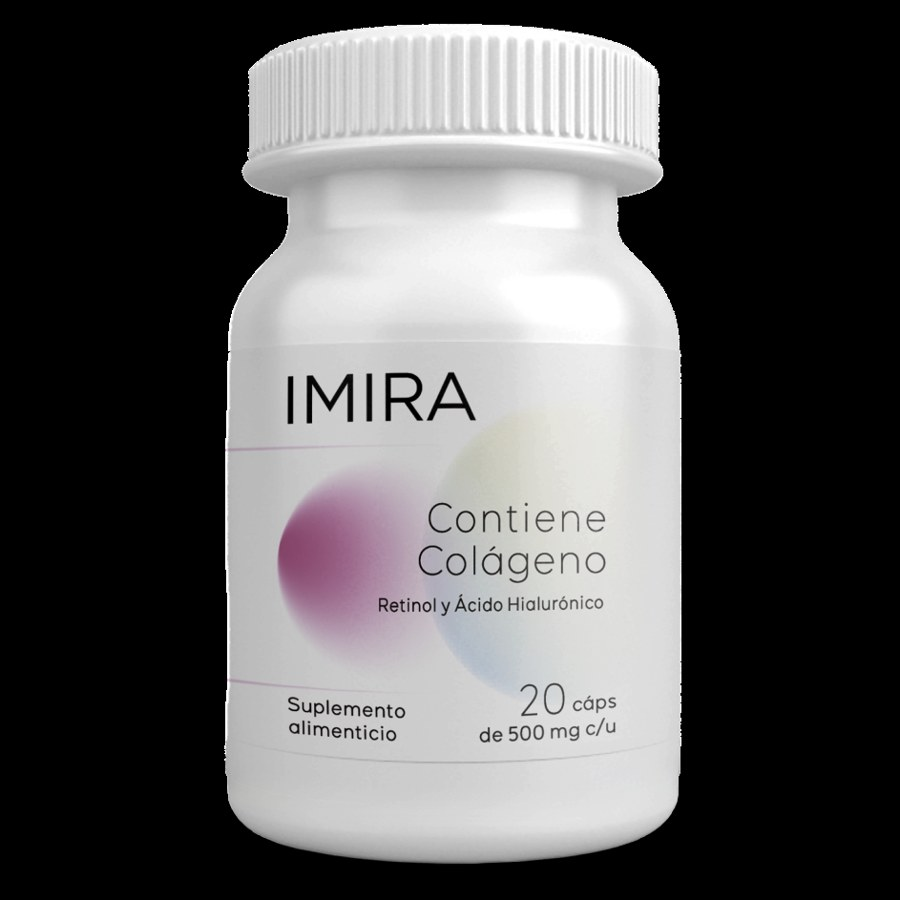
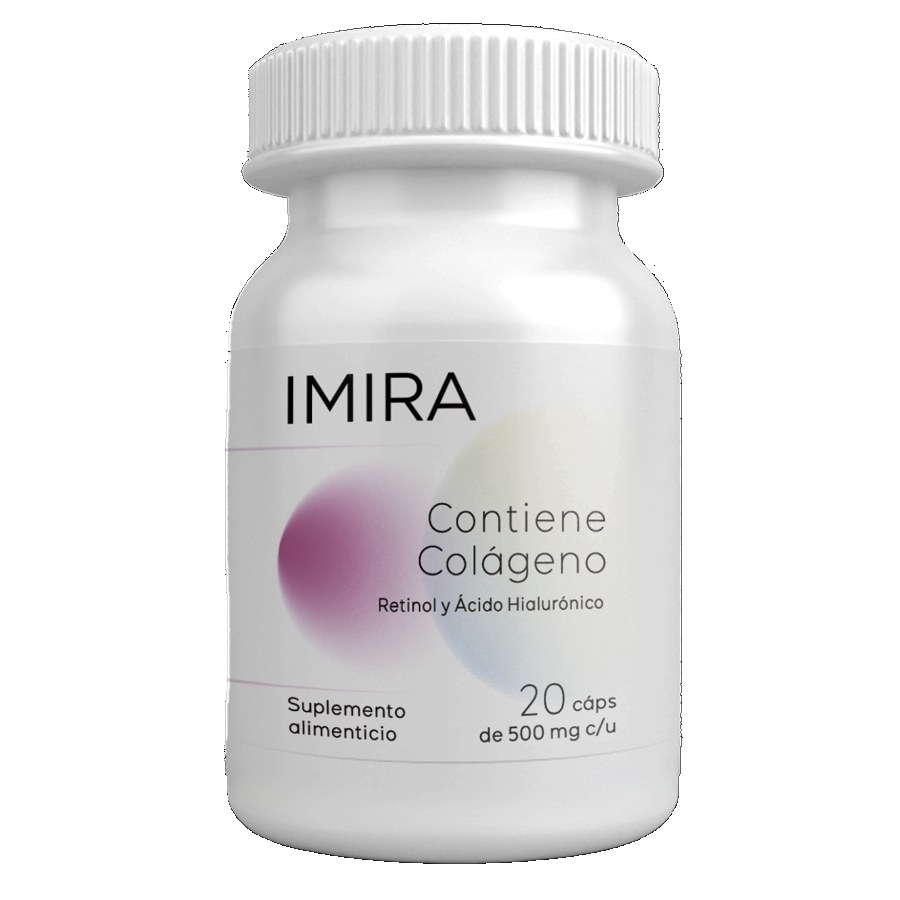
Фото: белый фон вместо чёрного — 763 кадра заливкой, 223 перерисовкой с автопроверкой текста

diff --git a/index.html b/index.html
@@ -52,7 +52,7 @@
 <div class="wrap">
   <header><img src="favicon.png" alt=""><h1>Tienda del fabricante</h1></header>
   <div class="intro"><p>Venta directa de productos para el bienestar diario.</p></div>
-  <div class="grid"><a class="card" href="/cp/artex/"><div class="ph"><img src="img/cat-eve-1277.jpg" alt="ARTEX" loading="lazy"></div><div class="name">ARTEX</div><div class="price">$590 MXN</div><div class="btn">PEDIR EL ORIGINAL</div></a><a class="card" href="/cp/audix/"><div class="ph"><img src="img/cpagetti-mx-14181.png" alt="Audix" loading="lazy"></div><div class="name">Audix</div><div class="price">$870 MXN</div><div class="btn">PEDIR EL ORIGINAL</div></a><a class="card" href="/dc/biofit/"><div class="ph"><img src="img/drcash-biofit.png" alt="Biofit" loading="lazy"></div><div class="name">Biofit</div><div class="price">$590 MXN</div><div class="btn">PEDIR EL ORIGINAL</div></a><a class="card" href="/mc/bionica/"><div class="ph"><img src="img/meta-mx-3566.png" alt="BIONICA" loading="lazy"></div><div class="name">BIONICA</div><div class="price">$590 MXN</div><div class="btn">PEDIR EL ORIGINAL</div></a><a class="card" href="/lr/biosulin/"><div class="ph"><img src="img/meta-biosulin.jpg" alt="Biosulin" loading="lazy"></div><div class="name">Biosulin</div><div class="price">$649 MXN</div><div class="btn">PEDIR EL ORIGINAL</div></a><a class="card" href="/cp/biozin/"><div class="ph"><img src="img/cpagetti-mx-13339.png" alt="Biozin" loading="lazy"></div><div class="name">Biozin</div><div class="price">$360 MXN</div><div class="btn">PEDIR EL ORIGINAL</div></a><a class="card" href="/cp/calmazin/"><div class="ph"><img src="img/cpagetti-calmazin.png" alt="Calmazin" loading="lazy"></div><div class="name">Calmazin</div><div class="price">$590 MXN</div><div class="btn">PEDIR EL ORIGINAL</div></a><a class="card" href="/dc/cardionix/"><div class="ph"><img src="img/drcash-mx-a72b2e04-2b3b-4138-81d6-2c87d0ce55bc.png" alt="Cardionix" loading="lazy"></div><div class="name">Cardionix</div><div class="price">$890 MXN</div><div class="btn">PEDIR EL ORIGINAL</div></a><a class="card" href="/ac/cardioviva/"><div class="ph"><img src="img/adcombo-cardioviva.png" alt="CardioViva" loading="lazy"></div><div class="name">CardioViva</div><div class="price">$649 MXN</div><div class="btn">PEDIR EL ORIGINAL</div></a><a class="card" href="/lr/congelum/"><div class="ph"><img src="img/adcombo-congelum.png" alt="Congelum" loading="lazy"></div><div class="name">Congelum</div><div class="price">$890 MXN</div><div class="btn">PEDIR EL ORIGINAL</div></a><a class="card" href="/tl/cordalis/"><div class="ph"><img src="img/drcash-cordalis.png" alt="Cordalis" loading="lazy"></div><div class="name">Cordalis</div><div class="price">$790 MXN</div><div class="btn">PEDIR EL ORIGINAL</div></a><a class="card" href="/kma/cordinox/"><div class="ph"><img src="img/cat-kma-10434.jpg" alt="Cordinox" loading="lazy"></div><div class="name">Cordinox</div><div class="price">$790 MXN</div><div class="btn">PEDIR EL ORIGINAL</div></a><a class="card" href="/m1/cordinox/"><div class="ph"><img src="img/drcash-mx-5a42144d-1a06-4277-b0a2-e2ddde7de019.png" alt="Cordinox jar" loading="lazy"></div><div class="name">Cordinox jar</div><div class="price">$590 MXN</div><div class="btn">PEDIR EL ORIGINAL</div></a><a class="card" href="/lb/cortitron/"><div class="ph"><img src="img/leadbit-cortitron.webp" alt="Cortitron" loading="lazy"></div><div class="name">Cortitron</div><div class="price">$790 MXN</div><div class="btn">PEDIR EL ORIGINAL</div></a><a class="card" href="/tl/dbxol/"><div class="ph"><img src="img/drcash-mx-79c82e5d-0e2e-4e0b-b062-9547c978b7e7.jpg" alt="DBXol" loading="lazy"></div><div class="name">DBXol</div><div class="price">$790 MXN</div><div class="btn">PEDIR EL ORIGINAL</div></a><a class="card" href="/cp/diamed/"><div class="ph"><img src="img/cpagetti-diamed.png" alt="Diamed" loading="lazy"></div><div class="name">Diamed</div><div class="price">$590 MXN</div><div class="btn">PEDIR EL ORIGINAL</div></a><a class="card" href="/cp/diamin/"><div class="ph"><img src="img/cpagetti-mx-13321.png" alt="Diamin" loading="lazy"></div><div class="name">Diamin</div><div class="price">$590 MXN</div><div class="btn">PEDIR EL ORIGINAL</div></a><a class="card" href="/cp/diaten/"><div class="ph"><img src="img/cpagetti-mx-16253.png" alt="DIATEN" loading="lazy"></div><div class="name">DIATEN</div><div class="price">$590 MXN</div><div class="btn">PEDIR EL ORIGINAL</div></a><a class="card" href="/cp/difort/"><div class="ph"><img src="img/cat-eve-1178.jpg" alt="DIFORT" loading="lazy"></div><div class="name">DIFORT</div><div class="price">$590 MXN</div><div class="btn">PEDIR EL ORIGINAL</div></a><a class="card" href="/ac/diobene/"><div class="ph"><img src="img/lbhd-14147.png" alt="Diobene" loading="lazy"></div><div class="name">Diobene</div><div class="price">$649 MXN</div><div class="btn">PEDIR EL ORIGINAL</div></a><a class="card" href="/ac/duston-gel/"><div class="ph"><img src="img/cp-14895.jpg" alt="Duston Gel" loading="lazy"></div><div class="name">Duston Gel</div><div class="price">$890 MXN</div><div class="btn">PEDIR EL ORIGINAL</div></a><a class="card" href="/cp/enzimlex/"><div class="ph"><img src="img/cpagetti-mx-13333.png" alt="Enzimlex" loading="lazy"></div><div class="name">Enzimlex</div><div class="price">$790 MXN</div><div class="btn">PEDIR EL ORIGINAL</div></a><a class="card" href="/lr/eroferon/"><div class="ph"><img src="img/leadrock-eroferon.webp" alt="Eroferon" loading="lazy"></div><div class="name">Eroferon</div><div class="price">$590 MXN</div><div class="btn">PEDIR EL ORIGINAL</div></a><a class="card" href="/lr/eronex/"><div class="ph"><img src="img/cat-roc-769.jpg" alt="Eronex" loading="lazy"></div><div class="name">Eronex</div><div class="price">$790 MXN</div><div class="btn">PEDIR EL ORIGINAL</div></a><a class="card" href="/rp/eronex-940/"><div class="ph"><img src="img/cat-roc-940.jpg" alt="Eronex 690" loading="lazy"></div><div class="name">Eronex 690</div><div class="price">$690 MXN</div><div class="btn">PEDIR EL ORIGINAL</div></a><a class="card" href="/cp/esbelita/"><div class="ph"><img src="img/cpagetti-esbelita.png" alt="Esbelita" loading="lazy"></div><div class="name">Esbelita</div><div class="price">$690 MXN</div><div class="btn">PEDIR EL ORIGINAL</div></a><a class="card" href="/mc/femiform/"><div class="ph"><img src="img/trafficlight-femiform.png" alt="Femiform" loading="lazy"></div><div class="name">Femiform</div><div class="price">$790 MXN</div><div class="btn">PEDIR EL ORIGINAL</div></a><a class="card" href="/ev/feronex/"><div class="ph"><img src="img/everad-feronex.webp" alt="Feronex" loading="lazy"></div><div class="name">Feronex</div><div class="price">$590 MXN</div><div class="btn">PEDIR EL ORIGINAL</div></a><a class="card" href="/ac/flemona/"><div class="ph"><img src="img/cpagetti-mx-11959.png" alt="Flemona" loading="lazy"></div><div class="name">Flemona</div><div class="price">$890 MXN</div><div class="btn">PEDIR EL ORIGINAL</div></a><a class="card" href="/dc/flexosamine/"><div class="ph"><img src="img/drcash-flexosamine.png" alt="Flexosamine caps" loading="lazy"></div><div class="name">Flexosamine caps</div><div class="price">$849 MXN</div><div class="btn">PEDIR EL ORIGINAL</div></a><a class="card" href="/ac/foot-trooper/"><div class="ph"><img src="img/achd-35396.png" alt="Foot Trooper" loading="lazy"></div><div class="name">Foot Trooper</div><div class="price">$890 MXN</div><div class="btn">PEDIR EL ORIGINAL</div></a><a class="card" href="/cp/glucalma/"><div class="ph"><img src="img/lrhd-6447.png" alt="Glucalma" loading="lazy"></div><div class="name">Glucalma</div><div class="price">$590 MXN</div><div class="btn">PEDIR EL ORIGINAL</div></a><a class="card" href="/tl/grinlait/"><div class="ph"><img src="img/drcash-mx-c8b81b04-bf49-4ef6-a351-dda18095a5cd.png" alt="Grinlait" loading="lazy"></div><div class="name">Grinlait</div><div class="price">$860 MXN</div><div class="btn">PEDIR EL ORIGINAL</div></a><a class="card" href="/dc/hondrodox/"><div class="ph"><img src="img/drcash-hondrodox.png" alt="Hondrodox" loading="lazy"></div><div class="name">Hondrodox</div><div class="price">$590 MXN</div><div class="btn">PEDIR EL ORIGINAL</div></a><a class="card" href="/kma/imira/"><div class="ph"><img src="img/cat-kma-9570.jpg" alt="Imira" loading="lazy"></div><div class="name">Imira</div><div class="price">$590 MXN</div><div class="btn">PEDIR EL ORIGINAL</div></a><a class="card" href="/ac/incaflex/"><div class="ph"><img src="img/drcash-incaflex.png" alt="IncaFlex" loading="lazy"></div><div class="name">IncaFlex</div><div class="price">$1720 MXN</div><div class="btn">PEDIR EL ORIGINAL</div></a><a class="card" href="/tl/longe-x/"><div class="ph"><img src="img/trafficlight-longe-x.png" alt="Longe X" loading="lazy"></div><div class="name">Longe X</div><div class="price">$790 MXN</div><div class="btn">PEDIR EL ORIGINAL</div></a><a class="card" href="/ac/magicoa/"><div class="ph"><img src="img/lbhd-12480.jpg" alt="Magicoa" loading="lazy"></div><div class="name">Magicoa</div><div class="price">$890 MXN</div><div class="btn">PEDIR EL ORIGINAL</div></a><a class="card" href="/m1/mantrix/"><div class="ph"><img src="img/cat-roc-1331.jpg" alt="MANTRIX" loading="lazy"></div><div class="name">MANTRIX</div><div class="price">$590 MXN</div><div class="btn">PEDIR EL ORIGINAL</div></a><a class="card" href="/dc/minoxidil-men-spray/"><div class="ph"><img src="img/drcash-minoxidil-men-spray.png" alt="Minoxidil Men spray" loading="lazy"></div><div class="name">Minoxidil Men spray</div><div class="price">$590 MXN</div><div class="btn">PEDIR EL ORIGINAL</div></a><a class="card" href="/cp/minoxidil-spray/"><div class="ph"><img src="img/cat-kma-10544.jpg" alt="Minoxidil Spray" loading="lazy"></div><div class="name">Minoxidil Spray</div><div class="price">$790 MXN</div><div class="btn">PEDIR EL ORIGINAL</div></a><a class="card" href="/cp/mobiflex/"><div class="ph"><img src="img/lrhd-6446.png" alt="Mobiflex" loading="lazy"></div><div class="name">Mobiflex</div><div class="price">$590 MXN</div><div class="btn">PEDIR EL ORIGINAL</div></a><a class="card" href="/dc/multirin/"><div class="ph"><img src="img/drcash-mx-214ad0b9-c4ef-4764-8bb3-f46c87a9a541.png" alt="Multirin" loading="lazy"></div><div class="name">Multirin</div><div class="price">$590 MXN</div><div class="btn">PEDIR EL ORIGINAL</div></a><a class="card" href="/tl/neogast/"><div class="ph"><img src="img/trafficlight-neogast.png" alt="NeoGast" loading="lazy"></div><div class="name">NeoGast</div><div class="price">$790 MXN</div><div class="btn">PEDIR EL ORIGINAL</div></a><a class="card" href="/cp/neuroson/"><div class="ph"><img src="img/cpagetti-neuroson.png" alt="Neuroson" loading="lazy"></div><div class="name">Neuroson</div><div class="price">$690 MXN</div><div class="btn">PEDIR EL ORIGINAL</div></a><a class="card" href="/m1/niapept/"><div class="ph"><img src="img/dccard-30853.png" alt="Niapept" loading="lazy"></div><div class="name">Niapept</div><div class="price">$890 MXN</div><div class="btn">PEDIR EL ORIGINAL</div></a><a class="card" href="/ev/nopalis/"><div class="ph"><img src="img/everad-nopalis.png" alt="Nopalis" loading="lazy"></div><div class="name">Nopalis</div><div class="price">$590 MXN</div><div class="btn">PEDIR EL ORIGINAL</div></a><a class="card" href="/cp/oculax/"><div class="ph"><img src="img/kmahd-6054.png" alt="Oculax" loading="lazy"></div><div class="name">Oculax</div><div class="price">$590 MXN</div><div class="btn">PEDIR EL ORIGINAL</div></a></div>
+  <div class="grid"><a class="card" href="/cp/artex/"><div class="ph"><img src="img/cat-eve-1277.jpg" alt="ARTEX" loading="lazy"></div><div class="name">ARTEX</div><div class="price">$590 MXN</div><div class="btn">PEDIR EL ORIGINAL</div></a><a class="card" href="/cp/audix/"><div class="ph"><img src="img/cpagetti-mx-14181.png" alt="Audix" loading="lazy"></div><div class="name">Audix</div><div class="price">$870 MXN</div><div class="btn">PEDIR EL ORIGINAL</div></a><a class="card" href="/dc/biofit/"><div class="ph"><img src="img/drcash-biofit.png" alt="Biofit" loading="lazy"></div><div class="name">Biofit</div><div class="price">$590 MXN</div><div class="btn">PEDIR EL ORIGINAL</div></a><a class="card" href="/mc/bionica/"><div class="ph"><img src="img/meta-mx-3566.png" alt="BIONICA" loading="lazy"></div><div class="name">BIONICA</div><div class="price">$590 MXN</div><div class="btn">PEDIR EL ORIGINAL</div></a><a class="card" href="/lr/biosulin/"><div class="ph"><img src="img/meta-biosulin.jpg" alt="Biosulin" loading="lazy"></div><div class="name">Biosulin</div><div class="price">$649 MXN</div><div class="btn">PEDIR EL ORIGINAL</div></a><a class="card" href="/cp/biozin/"><div class="ph"><img src="img/cpagetti-mx-13339.png" alt="Biozin" loading="lazy"></div><div class="name">Biozin</div><div class="price">$360 MXN</div><div class="btn">PEDIR EL ORIGINAL</div></a><a class="card" href="/cp/calmazin/"><div class="ph"><img src="img/cpagetti-calmazin.png" alt="Calmazin" loading="lazy"></div><div class="name">Calmazin</div><div class="price">$590 MXN</div><div class="btn">PEDIR EL ORIGINAL</div></a><a class="card" href="/dc/cardionix/"><div class="ph"><img src="img/drcash-mx-a72b2e04-2b3b-4138-81d6-2c87d0ce55bc.png" alt="Cardionix" loading="lazy"></div><div class="name">Cardionix</div><div class="price">$890 MXN</div><div class="btn">PEDIR EL ORIGINAL</div></a><a class="card" href="/ac/cardioviva/"><div class="ph"><img src="img/adcombo-cardioviva.png" alt="CardioViva" loading="lazy"></div><div class="name">CardioViva</div><div class="price">$649 MXN</div><div class="btn">PEDIR EL ORIGINAL</div></a><a class="card" href="/lr/congelum/"><div class="ph"><img src="img/adcombo-congelum.png" alt="Congelum" loading="lazy"></div><div class="name">Congelum</div><div class="price">$890 MXN</div><div class="btn">PEDIR EL ORIGINAL</div></a><a class="card" href="/tl/cordalis/"><div class="ph"><img src="img/drcash-cordalis.png" alt="Cordalis" loading="lazy"></div><div class="name">Cordalis</div><div class="price">$790 MXN</div><div class="btn">PEDIR EL ORIGINAL</div></a><a class="card" href="/kma/cordinox/"><div class="ph"><img src="img/cat-kma-10434.jpg" alt="Cordinox" loading="lazy"></div><div class="name">Cordinox</div><div class="price">$790 MXN</div><div class="btn">PEDIR EL ORIGINAL</div></a><a class="card" href="/m1/cordinox/"><div class="ph"><img src="img/drcash-mx-5a42144d-1a06-4277-b0a2-e2ddde7de019.png" alt="Cordinox jar" loading="lazy"></div><div class="name">Cordinox jar</div><div class="price">$590 MXN</div><div class="btn">PEDIR EL ORIGINAL</div></a><a class="card" href="/lb/cortitron/"><div class="ph"><img src="img/leadbit-cortitron.webp" alt="Cortitron" loading="lazy"></div><div class="name">Cortitron</div><div class="price">$790 MXN</div><div class="btn">PEDIR EL ORIGINAL</div></a><a class="card" href="/tl/dbxol/"><div class="ph"><img src="img/drcash-mx-79c82e5d-0e2e-4e0b-b062-9547c978b7e7.jpg" alt="DBXol" loading="lazy"></div><div class="name">DBXol</div><div class="price">$790 MXN</div><div class="btn">PEDIR EL ORIGINAL</div></a><a class="card" href="/cp/diamed/"><div class="ph"><img src="img/cpagetti-diamed.png" alt="Diamed" loading="lazy"></div><div class="name">Diamed</div><div class="price">$590 MXN</div><div class="btn">PEDIR EL ORIGINAL</div></a><a class="card" href="/cp/diamin/"><div class="ph"><img src="img/cpagetti-mx-13321.png" alt="Diamin" loading="lazy"></div><div class="name">Diamin</div><div class="price">$590 MXN</div><div class="btn">PEDIR EL ORIGINAL</div></a><a class="card" href="/cp/diaten/"><div class="ph"><img src="img/cpagetti-mx-16253.png" alt="DIATEN" loading="lazy"></div><div class="name">DIATEN</div><div class="price">$590 MXN</div><div class="btn">PEDIR EL ORIGINAL</div></a><a class="card" href="/cp/difort/"><div class="ph"><img src="img/cat-eve-1178.jpg" alt="DIFORT" loading="lazy"></div><div class="name">DIFORT</div><div class="price">$590 MXN</div><div class="btn">PEDIR EL ORIGINAL</div></a><a class="card" href="/ac/diobene/"><div class="ph"><img src="img/lbhd-14147.png" alt="Diobene" loading="lazy"></div><div class="name">Diobene</div><div class="price">$649 MXN</div><div class="btn">PEDIR EL ORIGINAL</div></a><a class="card" href="/ac/duston-gel/"><div class="ph"><img src="img/cp-14895.jpg" alt="Duston Gel" loading="lazy"></div><div class="name">Duston Gel</div><div class="price">$890 MXN</div><div class="btn">PEDIR EL ORIGINAL</div></a><a class="card" href="/cp/enzimlex/"><div class="ph"><img src="img/cpagetti-mx-13333.png" alt="Enzimlex" loading="lazy"></div><div class="name">Enzimlex</div><div class="price">$790 MXN</div><div class="btn">PEDIR EL ORIGINAL</div></a><a class="card" href="/lr/eroferon/"><div class="ph"><img src="img/leadrock-eroferon.webp" alt="Eroferon" loading="lazy"></div><div class="name">Eroferon</div><div class="price">$590 MXN</div><div class="btn">PEDIR EL ORIGINAL</div></a><a class="card" href="/lr/eronex/"><div class="ph"><img src="img/cat-roc-769.jpg" alt="Eronex" loading="lazy"></div><div class="name">Eronex</div><div class="price">$790 MXN</div><div class="btn">PEDIR EL ORIGINAL</div></a><a class="card" href="/rp/eronex-940/"><div class="ph"><img src="img/cat-roc-940.jpg" alt="Eronex 690" loading="lazy"></div><div class="name">Eronex 690</div><div class="price">$690 MXN</div><div class="btn">PEDIR EL ORIGINAL</div></a><a class="card" href="/cp/esbelita/"><div class="ph"><img src="img/cpagetti-esbelita.png" alt="Esbelita" loading="lazy"></div><div class="name">Esbelita</div><div class="price">$690 MXN</div><div class="btn">PEDIR EL ORIGINAL</div></a><a class="card" href="/mc/femiform/"><div class="ph"><img src="img/trafficlight-femiform.png" alt="Femiform" loading="lazy"></div><div class="name">Femiform</div><div class="price">$790 MXN</div><div class="btn">PEDIR EL ORIGINAL</div></a><a class="card" href="/ev/feronex/"><div class="ph"><img src="img/everad-feronex.webp" alt="Feronex" loading="lazy"></div><div class="name">Feronex</div><div class="price">$590 MXN</div><div class="btn">PEDIR EL ORIGINAL</div></a><a class="card" href="/ac/flemona/"><div class="ph"><img src="img/cpagetti-mx-11959.png" alt="Flemona" loading="lazy"></div><div class="name">Flemona</div><div class="price">$890 MXN</div><div class="btn">PEDIR EL ORIGINAL</div></a><a class="card" href="/dc/flexosamine/"><div class="ph"><img src="img/drcash-flexosamine.png" alt="Flexosamine caps" loading="lazy"></div><div class="name">Flexosamine caps</div><div class="price">$849 MXN</div><div class="btn">PEDIR EL ORIGINAL</div></a><a class="card" href="/ac/foot-trooper/"><div class="ph"><img src="img/achd-35396.png" alt="Foot Trooper" loading="lazy"></div><div class="name">Foot Trooper</div><div class="price">$890 MXN</div><div class="btn">PEDIR EL ORIGINAL</div></a><a class="card" href="/cp/glucalma/"><div class="ph"><img src="img/lrhd-6447.png" alt="Glucalma" loading="lazy"></div><div class="name">Glucalma</div><div class="price">$590 MXN</div><div class="btn">PEDIR EL ORIGINAL</div></a><a class="card" href="/tl/grinlait/"><div class="ph"><img src="img/drcash-mx-c8b81b04-bf49-4ef6-a351-dda18095a5cd.png" alt="Grinlait" loading="lazy"></div><div class="name">Grinlait</div><div class="price">$860 MXN</div><div class="btn">PEDIR EL ORIGINAL</div></a><a class="card" href="/dc/hondrodox/"><div class="ph"><img src="img/drcash-hondrodox.png" alt="Hondrodox" loading="lazy"></div><div class="name">Hondrodox</div><div class="price">$590 MXN</div><div class="btn">PEDIR EL ORIGINAL</div></a><a class="card" href="/kma/imira/"><div class="ph"><img src="img/cat-kma-9570.jpg" alt="Imira" loading="lazy"></div><div class="name">Imira</div><div class="price">$590 MXN</div><div class="btn">PEDIR EL ORIGINAL</div></a><a class="card" href="/ac/incaflex/"><div class="ph"><img src="img/drcash-incaflex.png" alt="IncaFlex" loading="lazy"></div><div class="name">IncaFlex</div><div class="price">$1720 MXN</div><div class="btn">PEDIR EL ORIGINAL</div></a><a class="card" href="/tl/longe-x/"><div class="ph"><img src="img/trafficlight-longe-x.png" alt="Longe X" loading="lazy"></div><div class="name">Longe X</div><div class="price">$790 MXN</div><div class="btn">PEDIR EL ORIGINAL</div></a><a class="card" href="/ac/magicoa/"><div class="ph"><img src="img/lbhd-12480.jpg" alt="Magicoa" loading="lazy"></div><div class="name">Magicoa</div><div class="price">$890 MXN</div><div class="btn">PEDIR EL ORIGINAL</div></a><a class="card" href="/m1/mantrix/"><div class="ph"><img src="img/cat-roc-1331.jpg" alt="MANTRIX" loading="lazy"></div><div class="name">MANTRIX</div><div class="price">$590 MXN</div><div class="btn">PEDIR EL ORIGINAL</div></a><a class="card" href="/dc/minoxidil-men-spray/"><div class="ph"><img src="img/drcash-minoxidil-men-spray.png" alt="Minoxidil Men spray" loading="lazy"></div><div class="name">Minoxidil Men spray</div><div class="price">$590 MXN</div><div class="btn">PEDIR EL ORIGINAL</div></a><a class="card" href="/cp/minoxidil-spray/"><div class="ph"><img src="img/redraw-cat-kma-10544.png" alt="Minoxidil Spray" loading="lazy"></div><div class="name">Minoxidil Spray</div><div class="price">$790 MXN</div><div class="btn">PEDIR EL ORIGINAL</div></a><a class="card" href="/cp/mobiflex/"><div class="ph"><img src="img/lrhd-6446.png" alt="Mobiflex" loading="lazy"></div><div class="name">Mobiflex</div><div class="price">$590 MXN</div><div class="btn">PEDIR EL ORIGINAL</div></a><a class="card" href="/dc/multirin/"><div class="ph"><img src="img/drcash-mx-214ad0b9-c4ef-4764-8bb3-f46c87a9a541.png" alt="Multirin" loading="lazy"></div><div class="name">Multirin</div><div class="price">$590 MXN</div><div class="btn">PEDIR EL ORIGINAL</div></a><a class="card" href="/tl/neogast/"><div class="ph"><img src="img/trafficlight-neogast.png" alt="NeoGast" loading="lazy"></div><div class="name">NeoGast</div><div class="price">$790 MXN</div><div class="btn">PEDIR EL ORIGINAL</div></a><a class="card" href="/cp/neuroson/"><div class="ph"><img src="img/cpagetti-neuroson.png" alt="Neuroson" loading="lazy"></div><div class="name">Neuroson</div><div class="price">$690 MXN</div><div class="btn">PEDIR EL ORIGINAL</div></a><a class="card" href="/m1/niapept/"><div class="ph"><img src="img/dccard-30853.png" alt="Niapept" loading="lazy"></div><div class="name">Niapept</div><div class="price">$890 MXN</div><div class="btn">PEDIR EL ORIGINAL</div></a><a class="card" href="/ev/nopalis/"><div class="ph"><img src="img/everad-nopalis.png" alt="Nopalis" loading="lazy"></div><div class="name">Nopalis</div><div class="price">$590 MXN</div><div class="btn">PEDIR EL ORIGINAL</div></a><a class="card" href="/cp/oculax/"><div class="ph"><img src="img/redraw-kmahd-6054.png" alt="Oculax" loading="lazy"></div><div class="name">Oculax</div><div class="price">$590 MXN</div><div class="btn">PEDIR EL ORIGINAL</div></a></div>
   <footer><a href="privacy.html">Aviso de privacidad</a><a href="terms.html">Términos y condiciones</a><a href="kontakt.html">Contacto</a><a href="about.html">Sobre nosotros</a><span>fazalstrk@gmail.com</span><span>© 2026</span></footer>
 </div>
 </body>

diff --git a/cp/minoxidil-spray/index.html b/cp/minoxidil-spray/index.html
@@ -260,7 +260,7 @@ body.free .disc,body:not(.free) .nodisc{display:none}
       <div>
         <div class="product-card">
           <span class="disc-ribbon disc">-50%</span>
-          <img src="../../img/cat-kma-10544.jpg" alt="Minoxidil Spray">
+          <img src="../../img/redraw-cat-kma-10544.png" alt="Minoxidil Spray">
           <div><span class="ribbon">Original</span><div class="shotcap">Empaque original con sello y número de lote</div></div>
         </div>
       </div>

diff --git a/kma/minoxidil-spray/index.html b/kma/minoxidil-spray/index.html
@@ -260,7 +260,7 @@ body.free .disc,body:not(.free) .nodisc{display:none}
       <div>
         <div class="product-card">
           <span class="disc-ribbon disc">-50%</span>
-          <img src="../../img/cat-kma-10544.jpg" alt="Minoxidil Spray">
+          <img src="../../img/redraw-cat-kma-10544.png" alt="Minoxidil Spray">
           <div><span class="ribbon">Original</span><div class="shotcap">Empaque original con sello y número de lote</div></div>
         </div>
       </div>

diff --git a/cp/oculax/index.html b/cp/oculax/index.html
@@ -260,7 +260,7 @@ body.free .disc,body:not(.free) .nodisc{display:none}
       <div>
         <div class="product-card">
           <span class="disc-ribbon disc">-50%</span>
-          <img src="../../img/kmahd-6054.png" alt="Oculax">
+          <img src="../../img/redraw-kmahd-6054.png" alt="Oculax">
           <div><span class="ribbon">Original</span><div class="shotcap">Empaque original con sello y número de lote</div></div>
         </div>
       </div>
